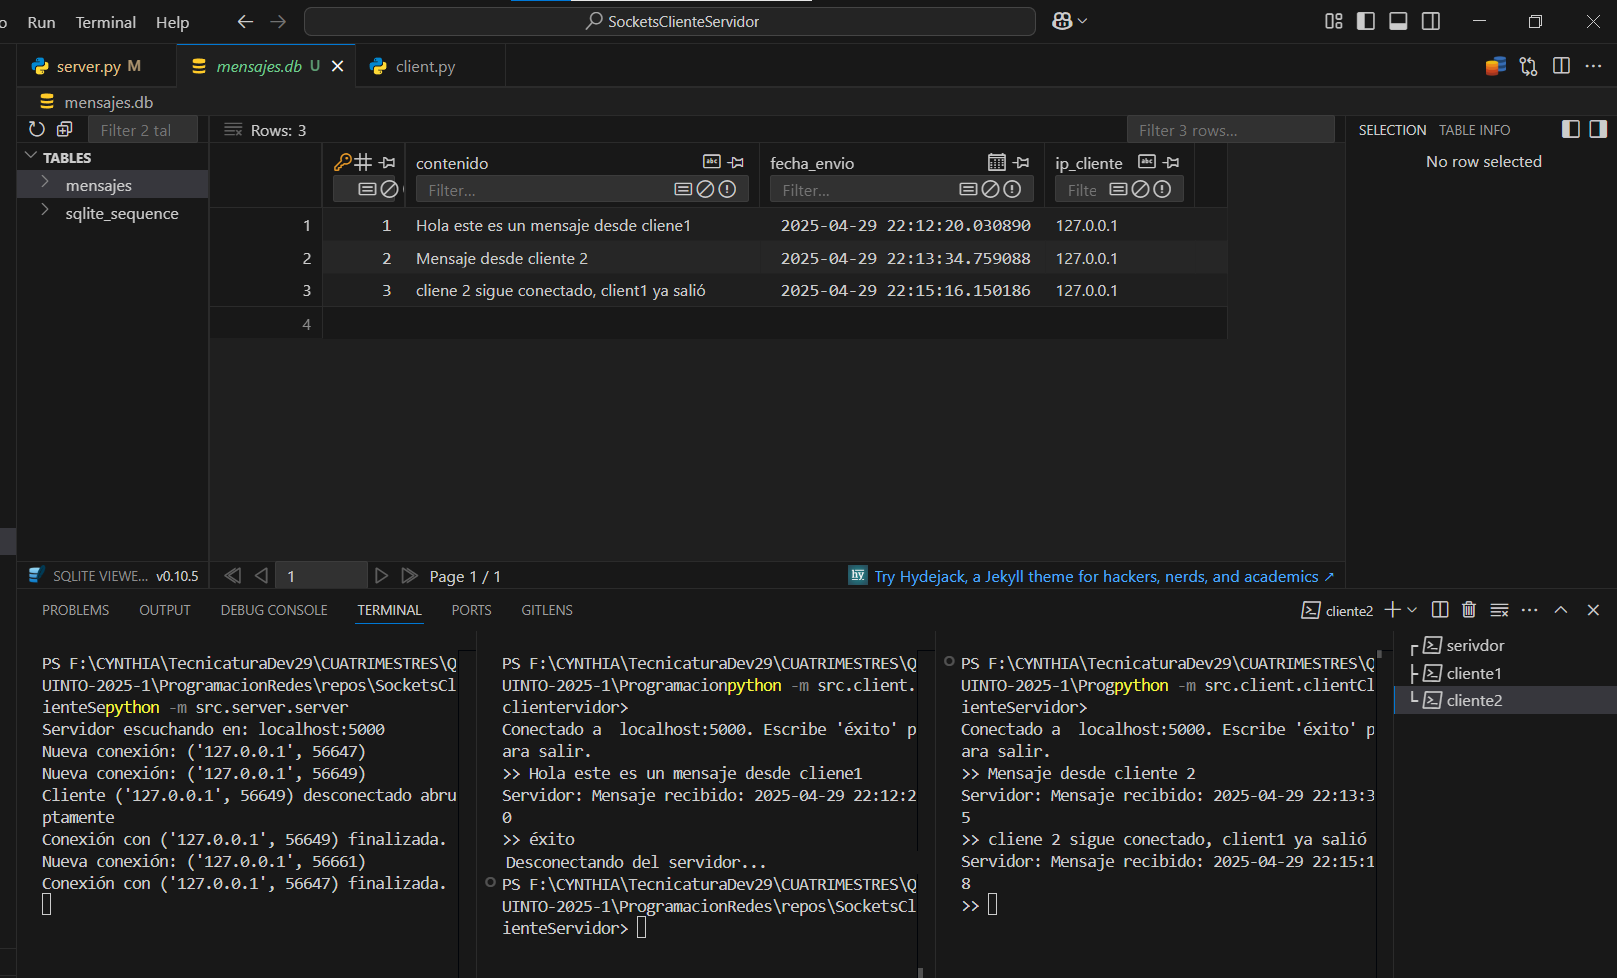
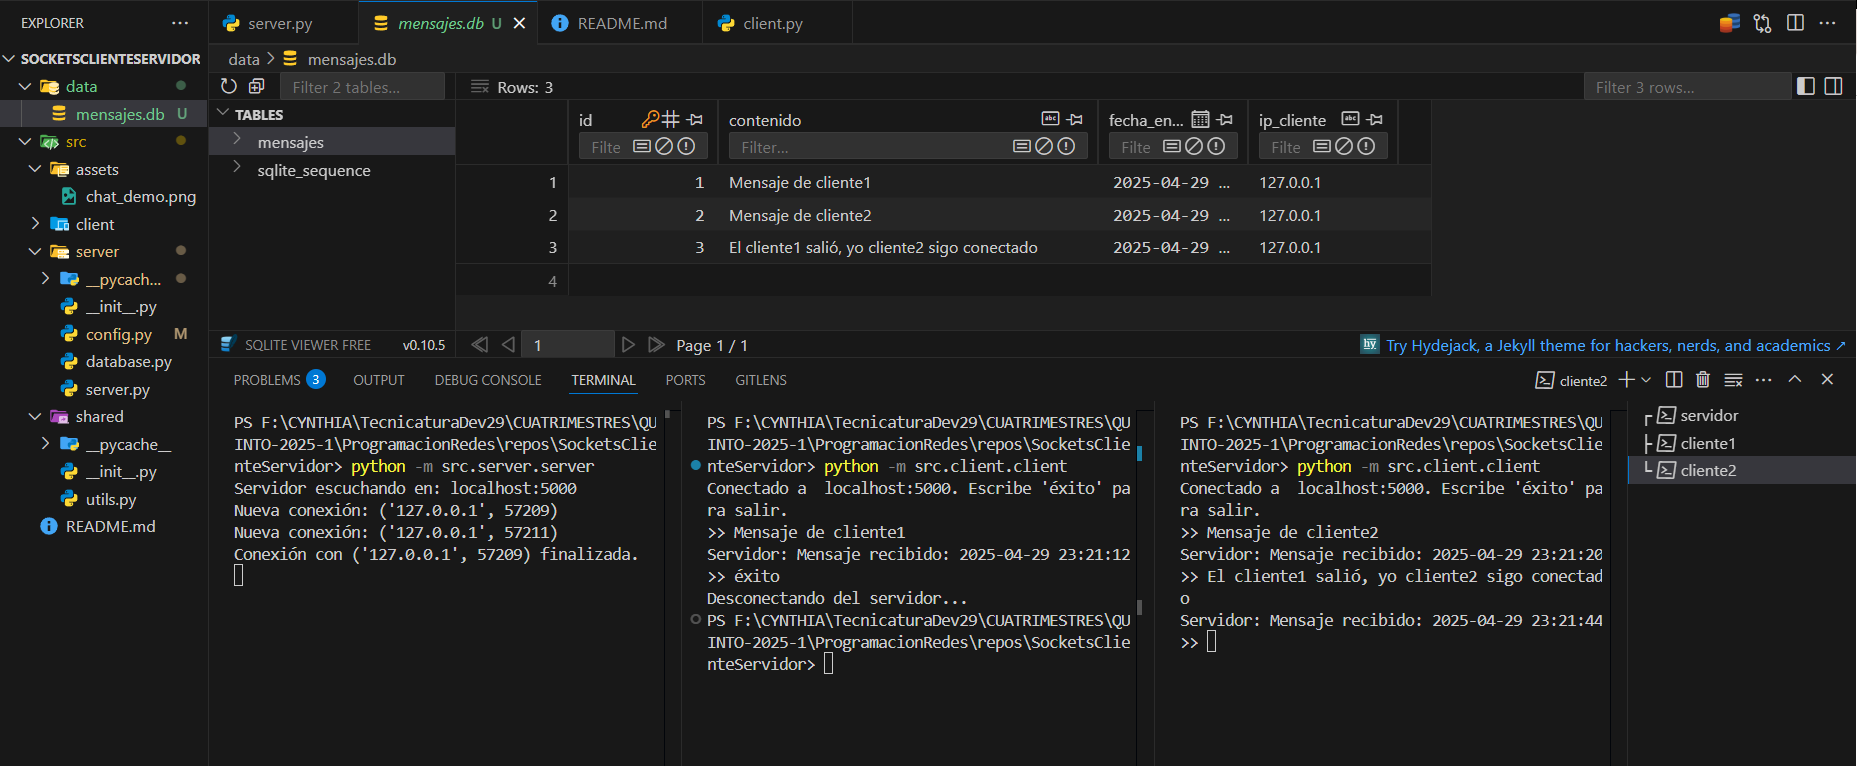
Mejora en  estructura del proyecto para la base de datos

diff --git a/src/server/config.py b/src/server/config.py
@@ -1,8 +1,13 @@
 """
 Configuración global del servidor: host, puerto, y constantes relacionadas con la red y base de datos.
 """
+from pathlib import Path  # Añade esta línea en la parte superior
+import os
+
+
 
 HOST = "localhost"
 PORT = 5000
-DB_NAME = "mensajes.db"
+# Ruta absoluta
+DB_NAME = str(Path(__file__).parent.parent.parent / "data" / "mensajes.db")
 BUFFER_SIZE = 1024

diff --git a/README.md b/README.md
@@ -15,7 +15,9 @@ Un servidor y cliente de chat básico implementado en Python, usando sockets par
 ## Estructura del Proyecto
 
 ```bash
-chat-app/
+SocketsClienteServidor/
+├── data/               # Almacenamiento
+│   └── mensajes.db     # Base de datos SQLite (se crea automáticamente al iniciar el servidor)
 ├── src/
 │   ├── assets/               # Capturas de pantalla/imágenes
 │   │   └── chat_demo.png   # Ejemplo de comunicacion y registro en DDBB
